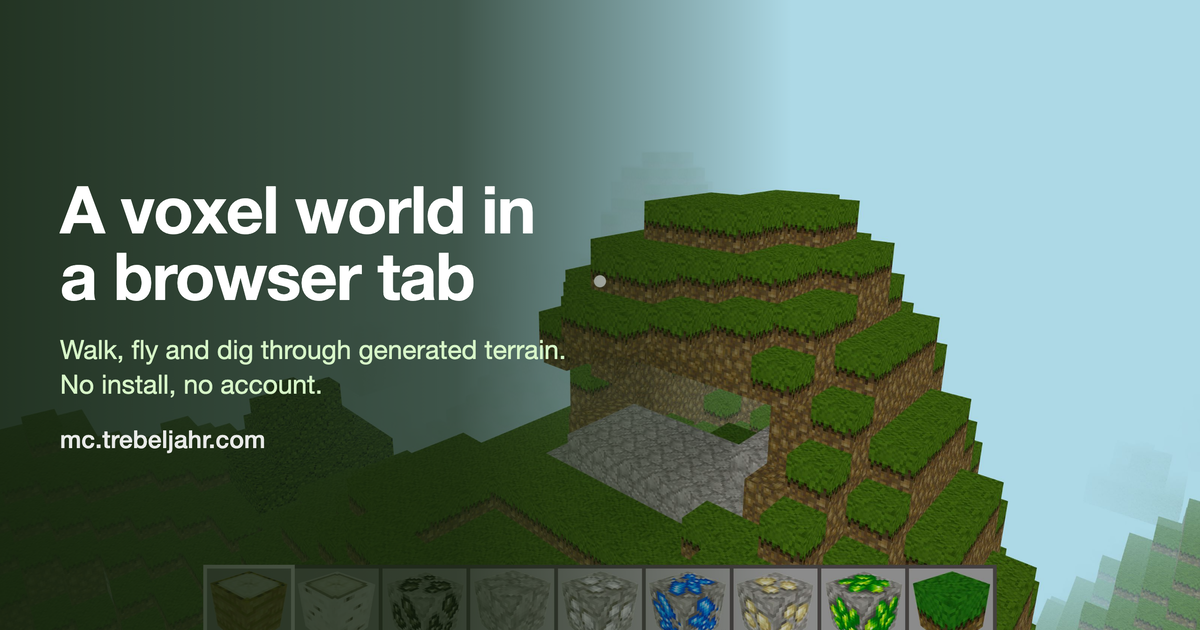
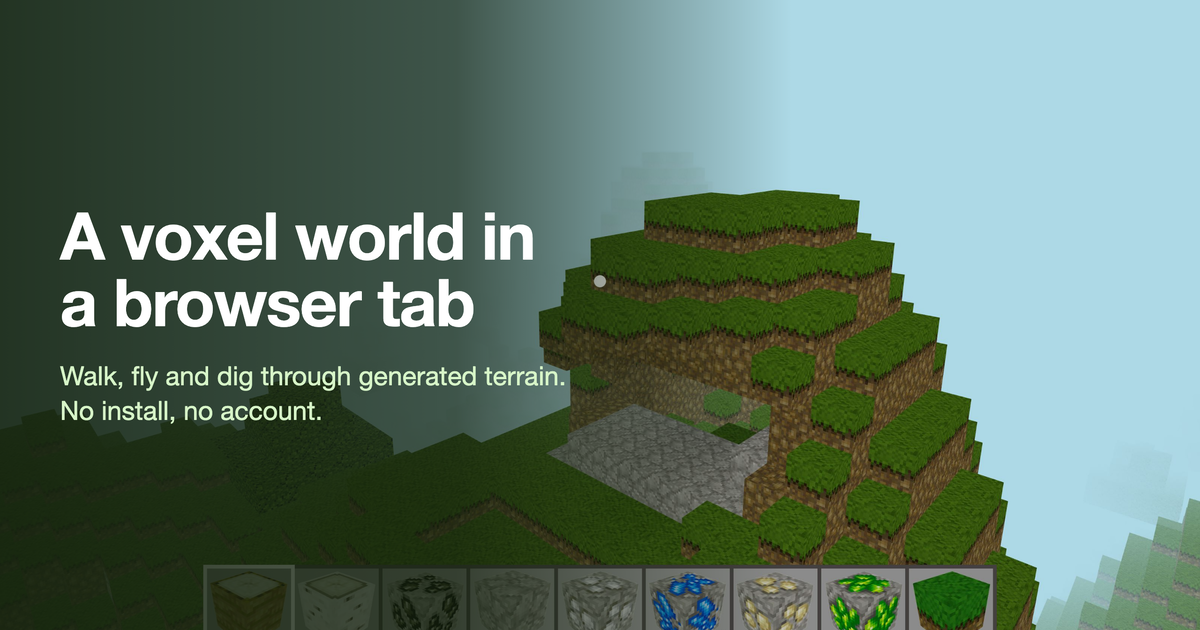
Leave the URL off the og:image wordmark card
Rico prefers link-preview cards without a URL on them; the preview already
shows the link. The name and line re-centre where the text block was.

Changed region(s): [[0.0308, 0.3016, 0.4625, 0.7238]]

diff --git a/docs/marketing/README.md b/docs/marketing/README.md
@@ -27,7 +27,7 @@ node scripts/marketing/render-social-preview.mjs --og
 | [`social-preview/social-preview-a.png`](social-preview/social-preview-a.png) | Social preview A, screenshot-led | 1280×640 | `template.html?v=a` with `world.jpg` | 2026-11-06 |
 | [`social-preview/social-preview-b.png`](social-preview/social-preview-b.png) | Social preview B, typographic | 1280×640 | `template.html?v=b` with the game's block icons from `public/assets/` | 2026-11-06 |
 | [`social-preview/social-preview-c.png`](social-preview/social-preview-c.png) | Social preview C, dark, mining pair | 1280×640 | `template.html?v=c` | 2026-11-06 |
-| [`social-preview/og-wordmark.png`](social-preview/og-wordmark.png) | og:image, with wordmark | 1200×630 | `template.html?v=a` laid out at 1280×672, shot at 2×, scaled with ImageMagick | 2026-11-11 |
+| [`social-preview/og-wordmark.png`](social-preview/og-wordmark.png) | og:image, with wordmark | 1200×630 | `template.html?v=a` without the URL line, laid out at 1280×672, shot at 2×, scaled with ImageMagick | 2026-11-12 |
 | [`social-preview/og-clean.png`](social-preview/og-clean.png) | og:image, no text | 1200×630 | `template.html?v=a` without shade or text, `world.jpg` reframed so the hotbar is cropped off | 2026-11-11 |
 | [`social-preview/template.html`](social-preview/template.html) | Source of the cards | – | HTML/CSS, Helvetica Neue / Arial, colours from `public/og-image.png` and the page's theme colour | 2026-11-06 |
 
